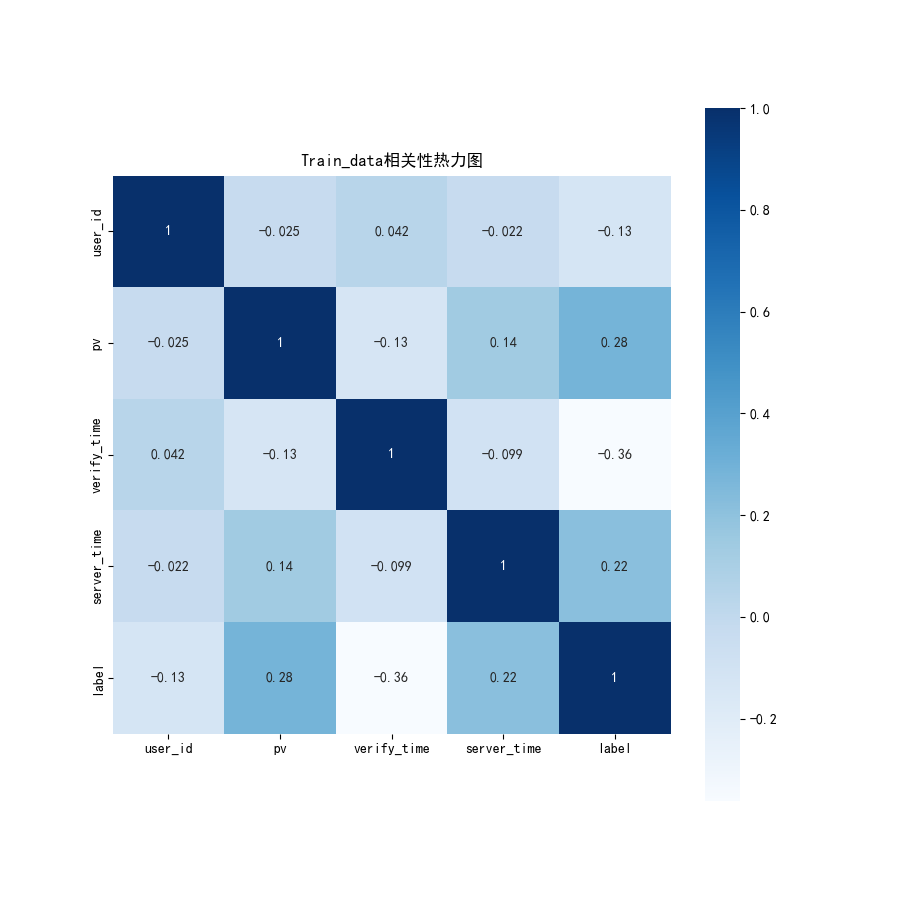
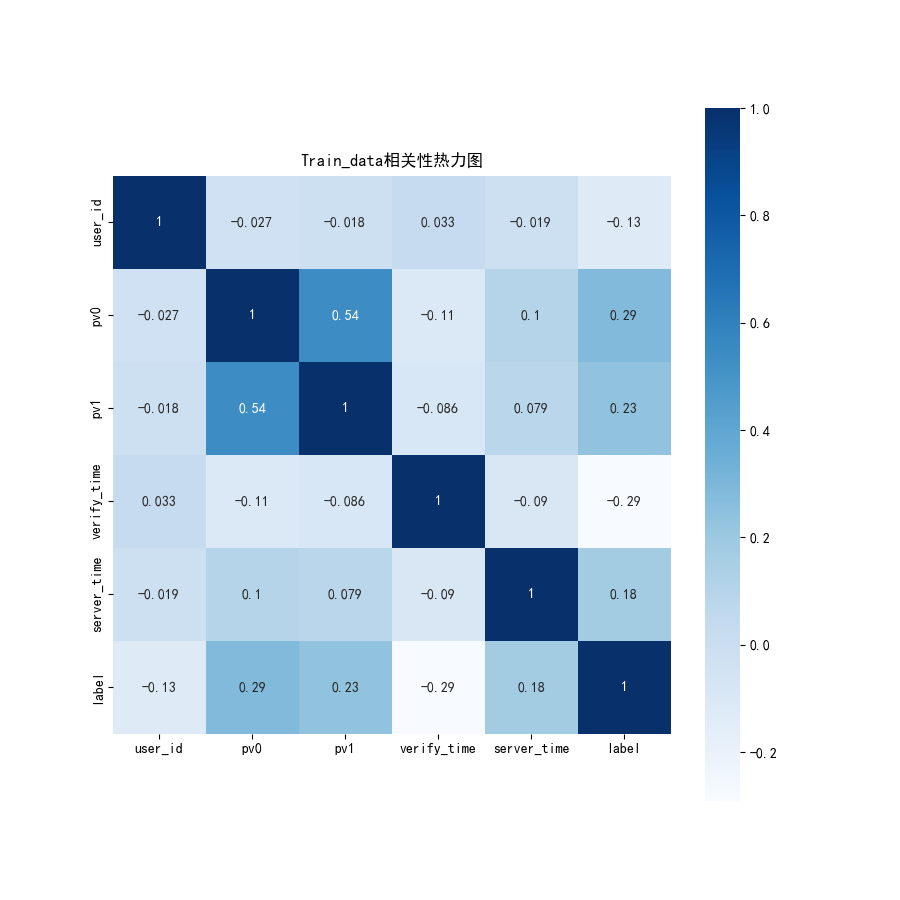
9.28-0.6180
将特征工程中pv拆分为pv0、pv1，分数提升至0.6180分

diff --git a/main.py b/main.py
@@ -2,9 +2,11 @@ import pandas as pd
 import numpy as np
 import matplotlib as mlt
 from matplotlib import pyplot as plt
-from sklearn.model_selection import train_test_split
+from sklearn.model_selection import train_test_split, GridSearchCV
 import seaborn as sns
+from sklearn.discriminant_analysis import LinearDiscriminantAnalysis
 from sklearn.ensemble import RandomForestClassifier
+from sklearn.preprocessing import StandardScaler
 
 plt.rcParams['font.sans-serif'] = ['SimHei']
 plt.rcParams['axes.unicode_minus'] = False
@@ -97,7 +99,6 @@ validation_set(10797):
 # percent_1 = train_captcha.isnull().sum()/train_captcha.isnull().count()*100
 # percent_2 = (round(percent_1,1)).sort_values(ascending=False)
 # missing_data = pd.concat([total, percent_2],axis = 1, keys=['Total','%'])
-# print(missing_data.head(5))
 
 # 特征形式转换
 '''
@@ -118,23 +119,57 @@ for data in dataset:
 # fig.set_title('Train_captcha相关性热力图')
 # plt.show()
 
-train_pv = pd.read_csv('./train_pv.csv')
+
+pv0 = train_actions.loc[train_actions['offset_hour'] == 0]
+pv0.to_csv('./train_pv0.csv', index=None)
+pv1 = train_actions.loc[train_actions['offset_hour'] == 1]
+pv1.to_csv('./train_pv1.csv', index=None)
+
+testpv0 = valid_actions.loc[valid_actions['offset_hour'] == 0]
+testpv0.to_csv('./test_pv0.csv', index=None)
+testpv1 = valid_actions.loc[valid_actions['offset_hour'] == 1]
+testpv1.to_csv('./test_pv1.csv', index=None)
+
+train_pv0 = pd.read_csv('./train_pv0.csv')
+train_pv1 = pd.read_csv('./train_pv1.csv')
+test_pv0 = pd.read_csv('./test_pv0.csv')
+test_pv1 = pd.read_csv('./test_pv1.csv')
+
+pv1_train = (train_pv1['pv'].groupby(train_pv1['user_id']).sum()) / (
+    train_pv1['pv'].groupby(train_pv1['user_id']).count())
+pv0_train = (train_pv0['pv'].groupby(train_pv0['user_id']).sum()) / (
+    train_pv0['pv'].groupby(train_pv0['user_id']).count())
+pv1_test = (test_pv1['pv'].groupby(test_pv1['user_id']).sum()) / (test_pv1['pv'].groupby(test_pv1['user_id']).count())
+pv0_test = (test_pv0['pv'].groupby(test_pv0['user_id']).sum()) / (test_pv0['pv'].groupby(test_pv0['user_id']).count())
+
+train_pv = pd.merge(pv0_train, pv1_train, on='user_id', how='left')
+train_pv.columns = ['pv0', 'pv1']
+train_pv.to_csv('./train_pv.csv')
+
+test_pv = pd.merge(pv0_test, pv1_test, on='user_id', how='left')
+test_pv.columns = ['pv0', 'pv1']
+test_pv.to_csv('./test_pv.csv')
+
+id = pd.read_csv('./id.csv')
+# train_pv = pd.read_csv('./train_pv.csv')
 train_verify = pd.read_csv('./train_verify.csv')
 train_server = pd.read_csv('./train_server.csv')
+train_pv = pd.read_csv('./train_pv.csv')
 
-test_pv = pd.read_csv('./test_pv.csv')
 test_verify = pd.read_csv('./test_verify.csv')
 test_server = pd.read_csv('./test_server.csv')
+test_pv = pd.read_csv('./test_pv.csv')
 
-#数据融合
-train_data = pd.merge(train_pv, train_verify, on='user_id', how='left')
+# 数据融合
+train_data = pd.merge(id, train_pv, on='user_id', how='left')
+train_data = pd.merge(train_data, train_verify, on='user_id', how='left')
 train_data = pd.merge(train_data, train_server, on='user_id', how='left')
 train_data = pd.merge(train_data, train_ground, on='user_id', how='left')
 train_data.to_csv('./train_data.csv', index=False)
 
-test_data = pd.merge(test_pv, test_verify, on='user_id', how='left')
+test_data = pd.merge(valid_set, test_pv, on='user_id', how='left')
+test_data = pd.merge(test_data, test_verify, on='user_id', how='left')
 test_data = pd.merge(test_data, test_server, on='user_id', how='left')
-test_data = pd.merge(test_data, valid_set, on='user_id', how='left')
 test_data.to_csv('./test_data.csv', index=False)
 
 # 融合后的数据
@@ -145,13 +180,15 @@ test_data = pd.read_csv('./test_data.csv')
 data = [train_data, test_data]
 process_null(data, 'verify_time')
 process_null(data, 'server_time')
+process_null(data, 'pv0')
+process_null(data, 'pv1')
 
 # 数据压缩
 train_data = reduce_mem_usage(train_data)
 test_data = reduce_mem_usage(test_data)
 
 # 训练数据生成
-features = ['pv', 'verify_time', 'server_time']
+features = ['pv0', 'pv1', 'verify_time', 'server_time']
 X_train = train_data.loc[:, features].values
 Y_train = train_data.loc[:, ['label']].values
 F_test = test_data.loc[:, features].values
@@ -159,9 +196,9 @@ F_test = test_data.loc[:, features].values
 # 随机森林
 random_forest = RandomForestClassifier(criterion="gini",
                                        min_samples_leaf=10,
-                                       max_depth=9,
+                                       max_depth=13,
                                        min_samples_split=80,
-                                       n_estimators=70,
+                                       n_estimators=60,
                                        oob_score=True,
                                        random_state=10,
                                        n_jobs=-1
@@ -171,7 +208,7 @@ Y_prediction = random_forest.predict(F_test)
 random_forest.score(X_train, Y_train)
 print("oob score:", round(random_forest.oob_score_, 4) * 100, "%")
 
-#结果输出
+# 结果输出
 Y_prediction = pd.DataFrame(Y_prediction)
 result = pd.concat([valid_set['user_id'], Y_prediction], axis=1)
 result.columns = ['user_id', 'label']
